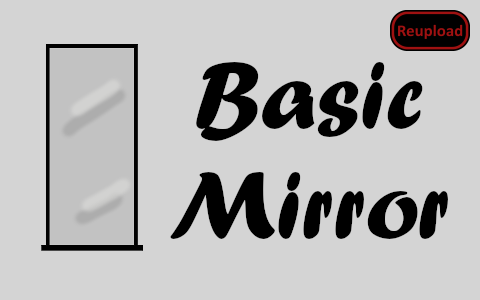
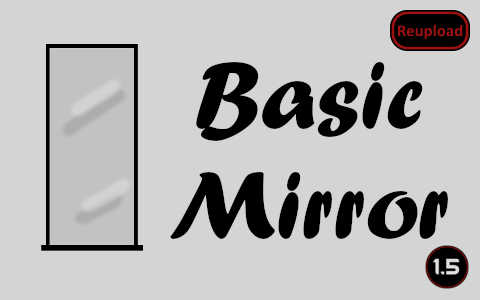
Mod updated for 1.5 and passed autotests

Changed region(s): [[0.875, 0.81, 1.0, 0.96]]

diff --git a/README.md b/README.md
@@ -28,11 +28,13 @@ Notes:
 
 -  See if the the error persists if you just have this mod and its requirements active.
 -  If not, try adding your other mods until it happens again.
--  Post your error-log using https://steamcommunity.com/workshop/filedetails/?id=818773962]HugsLib and command Ctrl+F12
+-  Post your error-log using https://steamcommunity.com/workshop/filedetails/?id=818773962]HugsLib or the standalone https://steamcommunity.com/sharedfiles/filedetails/?id=2873415404]Uploader and command Ctrl+F12
 -  For best support, please use the Discord-channel for error-reporting.
 -  Do not report errors by making a discussion-thread, I get no notification of that.
 -  If you have the solution for a problem, please post it to the GitHub repository.
+-  Use https://github.com/RimSort/RimSort/releases/latest]RimSort to sort your mods
 
 
 
+https://steamcommunity.com/sharedfiles/filedetails/changelog/2597543500]![Image](https://img.shields.io/github/v/release/emipa606/BasicMirrors?label=latest%20version&style=plastic&color=9f1111&labelColor=black)
 
